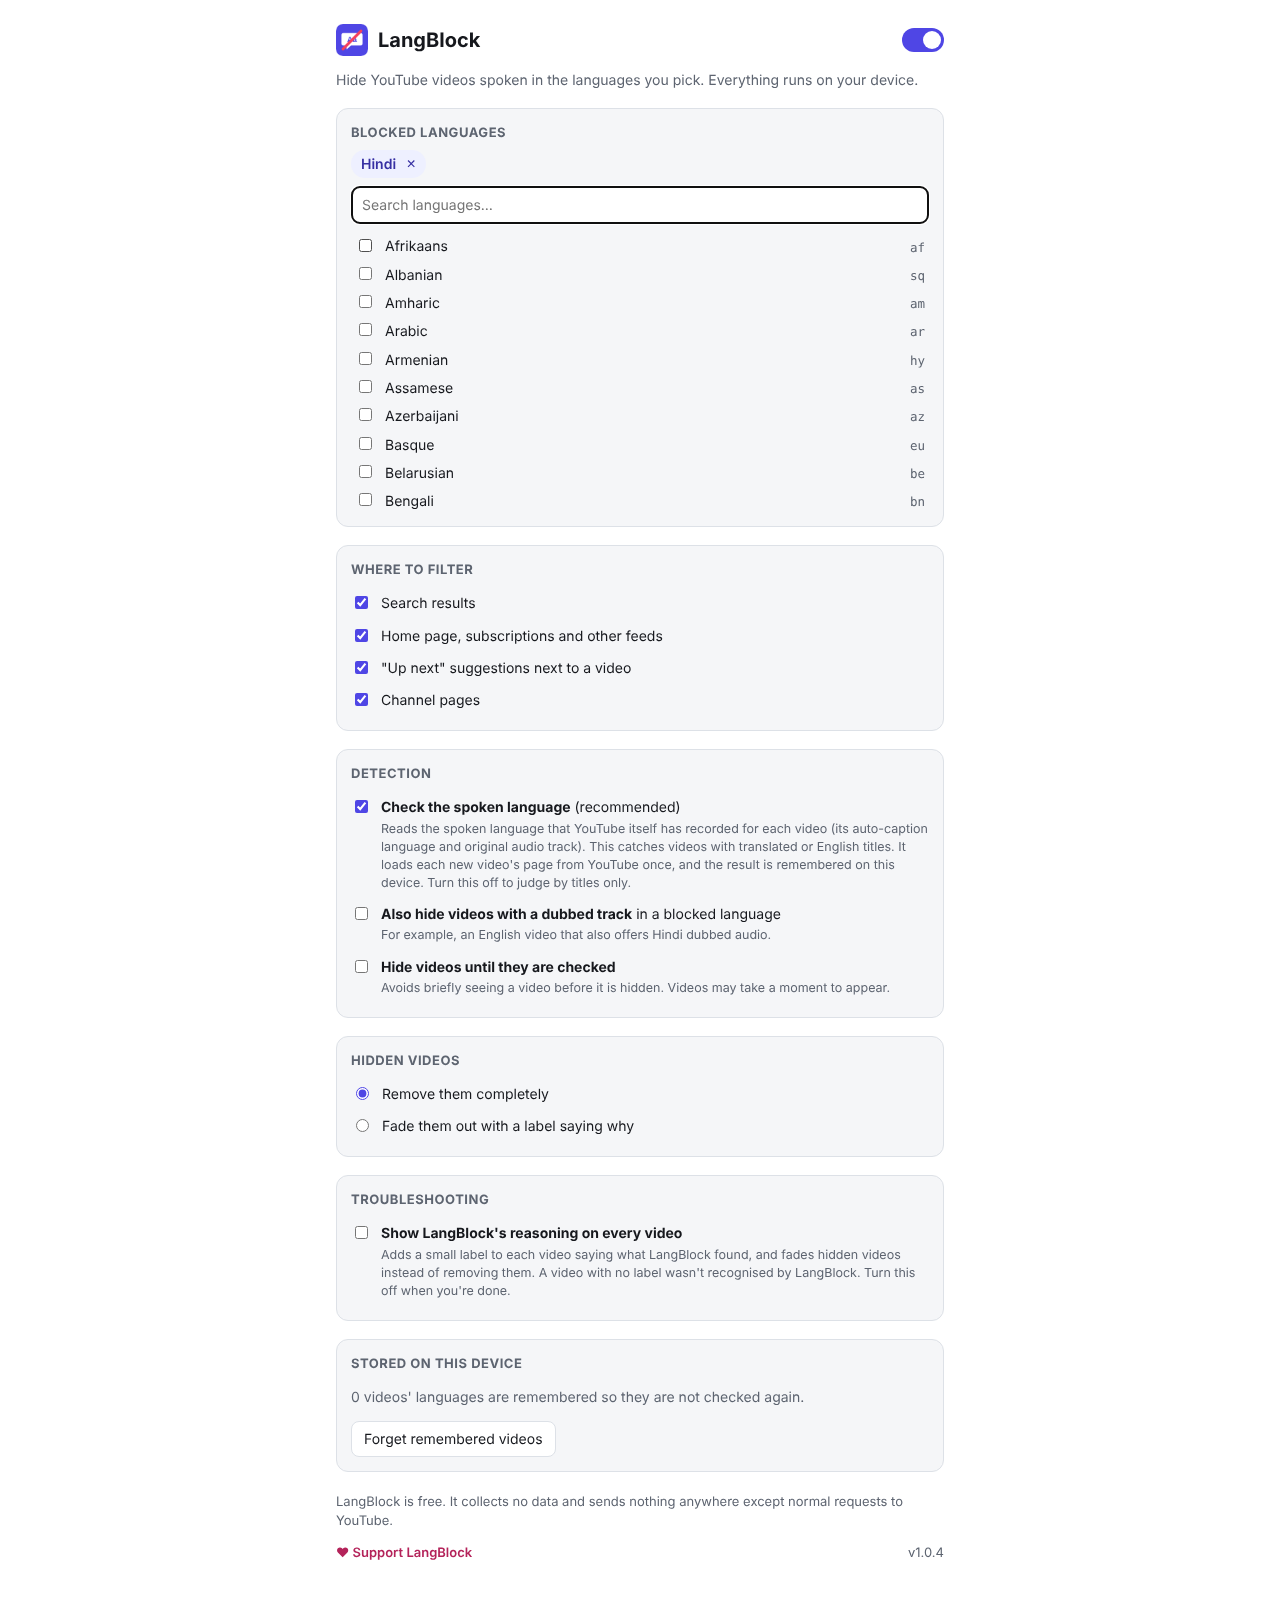
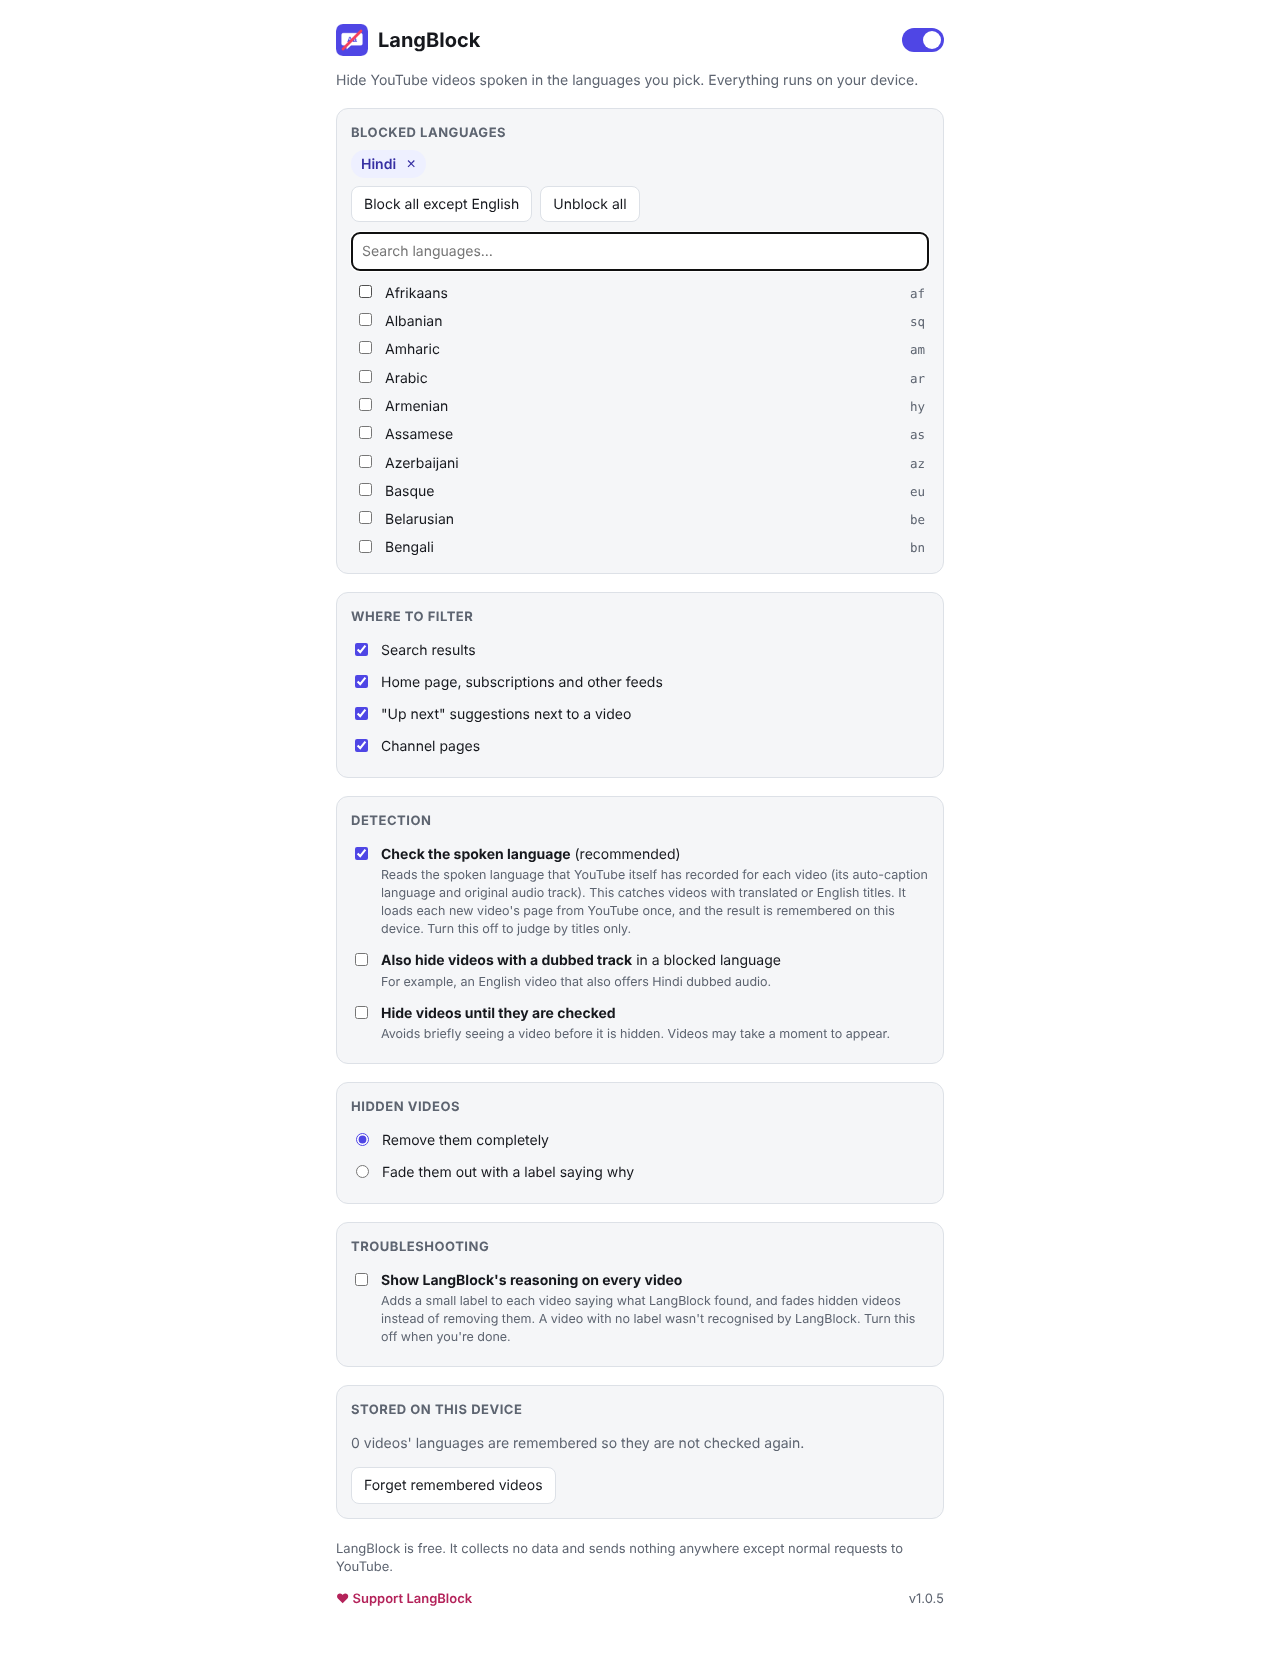
1.0.5: "Block all except <your language>" and "Unblock all"
Two buttons in the settings page and popup. "Block all except" leaves
the browser's own language unblocked; both offer Undo, and languages can
still be ticked or unticked one by one afterwards. When more than 12
languages are blocked, a one-line summary replaces the chips.

Claude-Session: https://claude.ai/code/session_01PEBjGpQ1o4LDysv1wHTkaj

diff --git a/ui/settings.js b/ui/settings.js
@@ -11,10 +11,43 @@
   let settings = LB.sanitizeSettings(null);
 
   const sortedLanguages = [...LB.LANGUAGES].sort((a, b) => a.name.localeCompare(b.name));
+  // More chips than this would fill the page, so a summary is shown instead.
+  const MAX_CHIPS = 12;
+
+  // The browser's own language, which "Block all" leaves unblocked.
+  const ownLanguage = (() => {
+    let ui = "";
+    try {
+      ui = api.i18n.getUILanguage();
+    } catch {
+      ui = "";
+    }
+    for (const tag of [ui, ...(navigator.languages || []), navigator.language]) {
+      const code = LB.normalizeCode(tag);
+      if (code && LB.LANGUAGE_BY_CODE[code]) return code;
+    }
+    return null;
+  })();
+  const allButOwn = sortedLanguages.map((l) => l.code).filter((c) => c !== ownLanguage);
+
+  let undo = null; // blocked list from before the last "Block all"/"Unblock all"
 
   async function save() {
     settings = await LB.storage.saveSettings(settings);
     render();
+  }
+
+  // Individual picks replace the bulk action's Undo.
+  function setBlocked(codes) {
+    undo = null;
+    settings.blocked = codes;
+    save();
+  }
+
+  function bulkSet(codes, message) {
+    undo = { blocked: settings.blocked.slice(), message };
+    settings.blocked = codes;
+    save();
   }
 
   function el(tag, props = {}, text) {
@@ -27,15 +60,21 @@
   function renderChips() {
     const chips = $("chips");
     chips.replaceChildren();
+    if (settings.blocked.length > MAX_CHIPS) {
+      const blocked = new Set(settings.blocked);
+      const open = sortedLanguages.filter((l) => !blocked.has(l.code)).map((l) => l.name);
+      let text = `Blocking ${blocked.size} of ${sortedLanguages.length} languages.`;
+      if (open.length > 0 && open.length <= 5) text += ` Not blocked: ${open.join(", ")}.`;
+      chips.append(el("span", { className: "summary" }, text));
+      $("no-langs").hidden = true;
+      return;
+    }
     for (const code of settings.blocked) {
       const chip = el("span", { className: "chip" });
       chip.append(el("span", {}, LB.languageName(code)));
       const remove = el("button", { type: "button", className: "chip-x", title: "Stop blocking" }, "×");
       remove.setAttribute("aria-label", `Stop blocking ${LB.languageName(code)}`);
-      remove.addEventListener("click", () => {
-        settings.blocked = settings.blocked.filter((c) => c !== code);
-        save();
-      });
+      remove.addEventListener("click", () => setBlocked(settings.blocked.filter((c) => c !== code)));
       chip.append(remove);
       chips.append(chip);
     }
@@ -63,8 +102,7 @@
         const set = new Set(settings.blocked);
         if (box.checked) set.add(lang.code);
         else set.delete(lang.code);
-        settings.blocked = [...set];
-        save();
+        setBlocked([...set]);
       });
       label.append(box, el("span", {}, lang.name), el("small", { className: "code" }, lang.code));
       li.append(label);
@@ -73,10 +111,30 @@
     if (matches.length === 0) list.append(el("li", { className: "hint" }, "No matching language."));
   }
 
+  function renderBulk() {
+    const blocked = new Set(settings.blocked);
+    const blockAll = $("block-all");
+    if (ownLanguage) {
+      blockAll.hidden = false;
+      blockAll.textContent = `Block all except ${LB.languageName(ownLanguage)}`;
+      blockAll.disabled = blocked.size === allButOwn.length && allButOwn.every((c) => blocked.has(c));
+    }
+    $("unblock-all").disabled = blocked.size === 0;
+
+    const msg = $("bulk-msg");
+    msg.replaceChildren();
+    msg.hidden = !undo;
+    if (!undo) return;
+    const back = el("button", { type: "button", className: "link" }, "Undo");
+    back.addEventListener("click", () => setBlocked(undo.blocked));
+    msg.append(undo.message, back);
+  }
+
   function render() {
     $("enabled").checked = settings.enabled;
     document.body.classList.toggle("is-off", !settings.enabled);
     renderChips();
+    renderBulk();
     renderList();
     for (const box of document.querySelectorAll("[data-surface]")) {
       box.checked = !!settings.surfaces[box.dataset.surface];
@@ -95,6 +153,10 @@
       save();
     });
     $("lang-search").addEventListener("input", renderList);
+    $("block-all").addEventListener("click", () =>
+      bulkSet(allButOwn, `Blocking every language except ${LB.languageName(ownLanguage)}.`)
+    );
+    $("unblock-all").addEventListener("click", () => bulkSet([], "Unblocked all languages."));
     for (const box of document.querySelectorAll("[data-surface]")) {
       box.addEventListener("change", () => {
         settings.surfaces = { ...settings.surfaces, [box.dataset.surface]: box.checked };

diff --git a/ui/options.html b/ui/options.html
@@ -23,6 +23,11 @@
         <h2>Blocked languages</h2>
         <div id="chips" class="chips" aria-live="polite"></div>
         <p id="no-langs" class="hint" hidden>No languages blocked yet. Pick one below to start.</p>
+        <div class="bulk">
+          <button id="block-all" type="button" class="btn btn-small" hidden>Block all except my language</button>
+          <button id="unblock-all" type="button" class="btn btn-small">Unblock all</button>
+        </div>
+        <p id="bulk-msg" class="hint bulk-msg" role="status" hidden></p>
         <input id="lang-search" type="search" placeholder="Search languages…" autocomplete="off" aria-label="Search languages" />
         <ul id="lang-list" class="lang-list"></ul>
       </section>

diff --git a/ui/popup.html b/ui/popup.html
@@ -23,6 +23,11 @@
         <h2>Blocked languages</h2>
         <div id="chips" class="chips" aria-live="polite"></div>
         <p id="no-langs" class="hint" hidden>No languages blocked yet. Pick one below to start.</p>
+        <div class="bulk">
+          <button id="block-all" type="button" class="btn btn-small" hidden>Block all except my language</button>
+          <button id="unblock-all" type="button" class="btn btn-small">Unblock all</button>
+        </div>
+        <p id="bulk-msg" class="hint bulk-msg" role="status" hidden></p>
         <input id="lang-search" type="search" placeholder="Add a language…" autocomplete="off" aria-label="Search languages" />
         <ul id="lang-list" class="lang-list"></ul>
       </section>

diff --git a/ui/settings.css b/ui/settings.css
@@ -162,6 +162,35 @@ input[type="search"] {
   font: inherit;
 }
 
+.bulk {
+  display: flex;
+  flex-wrap: wrap;
+  gap: 8px;
+  margin-bottom: 10px;
+}
+
+.btn-small {
+  padding: 5px 10px;
+  font-size: 13px;
+}
+
+.btn:disabled {
+  opacity: 0.5;
+  cursor: default;
+}
+
+.bulk-msg {
+  margin: -4px 0 10px;
+}
+
+.bulk-msg .link {
+  margin-left: 6px;
+}
+
+.chips .summary {
+  color: var(--text);
+}
+
 .lang-list {
   list-style: none;
   margin: 8px 0 0;
@@ -202,7 +231,7 @@ input[type="search"] {
   cursor: pointer;
 }
 
-.btn:hover {
+.btn:hover:not(:disabled) {
   border-color: var(--accent);
 }
 

diff --git a/eslint.config.js b/eslint.config.js
@@ -8,7 +8,7 @@ export default [
         globalThis: "readonly", window: "readonly", document: "readonly", location: "readonly",
         URL: "readonly", CSS: "readonly", fetch: "readonly", setTimeout: "readonly", clearTimeout: "readonly",
         AbortController: "readonly", TextDecoder: "readonly", IntersectionObserver: "readonly",
-        MutationObserver: "readonly",
+        MutationObserver: "readonly", navigator: "readonly",
       },
     },
     rules: {

diff --git a/README.md b/README.md
@@ -25,6 +25,9 @@ The second check matters because YouTube auto-translates titles and auto-dubs au
 - **Playlist cards** list their first videos. LangBlock checks up to three of them and hides the playlist when at least half of the videos with a known language are in a blocked language. Their titles are also included in the title check.
 - **Language named in the title.** "in Hindi", "(Hindi)", "| Hindi", "Urdu / Hindi" or "Hindi dubbed" count as a signal. This outranks YouTube's spoken-language label, because that label isn't always right. "Learn Hindi", "Hindi vs Urdu" or "French toast" don't count.
 
+### Picking languages
+Tick languages in the list, or use "Block all except English" (named after the browser's language) to block every language LangBlock knows except yours, and "Unblock all" to clear the list. Individual languages can still be ticked or unticked afterwards, and both buttons offer Undo.
+
 ### Troubleshooting mode
 Settings → Troubleshooting → "Show LangBlock's reasoning on every video" labels each recognised video with what LangBlock found (spoken language and where it came from, the title's detected language, shown as "maybe Italian (ignored)" when the guess was too weak to use, and any language named in the text) and fades hidden videos instead of removing them. A video with no label wasn't recognised as a video card.
 

diff --git a/docs/STORE_LISTING.md b/docs/STORE_LISTING.md
@@ -25,7 +25,7 @@ LangBlock checks each video in two ways, both on your device:
 • Spoken-language check: LangBlock reads the spoken language YouTube itself has recorded for the video, namely the language of YouTube's automatic captions and the video's original audio track. This catches videos whose titles are in English or were auto-translated by YouTube. Each video is checked once and the answer is remembered on your device.
 
 FEATURES
-• Block any number of languages (80+ supported)
+• Block any number of languages (80+ supported), or every language except your own in one click
 • Also filters playlists, by checking the videos they list
 • Choose where to filter: search, home and feeds, "Up next", channel pages
 • Optionally hide videos that offer a dubbed audio track in a blocked language
